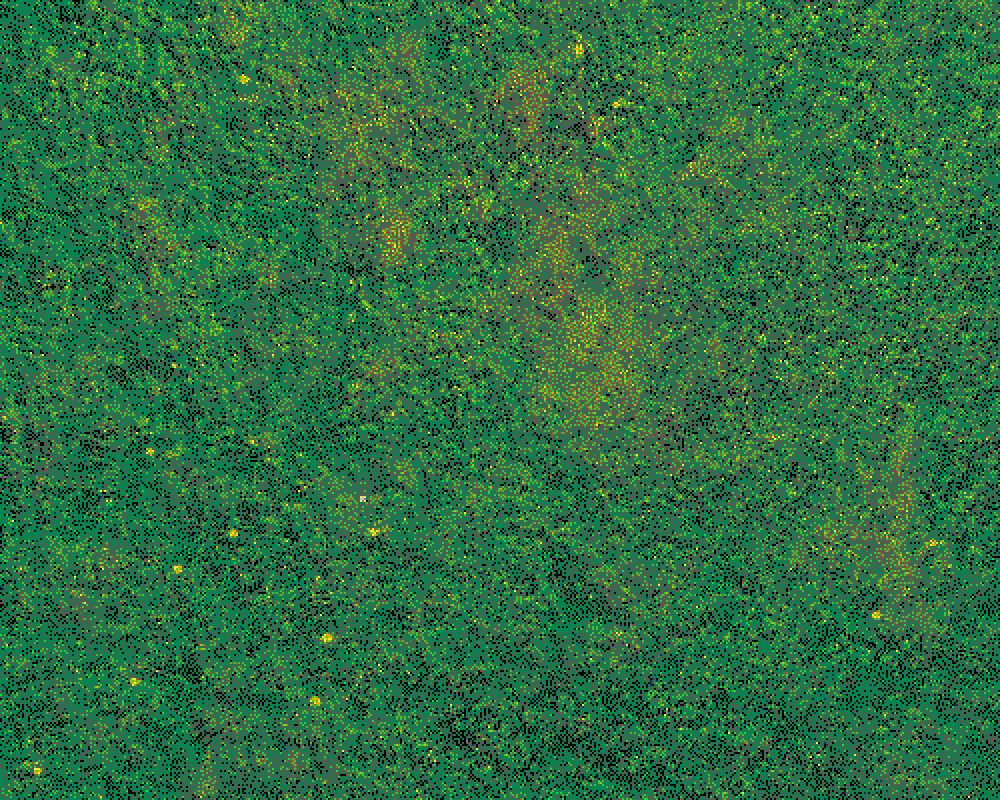
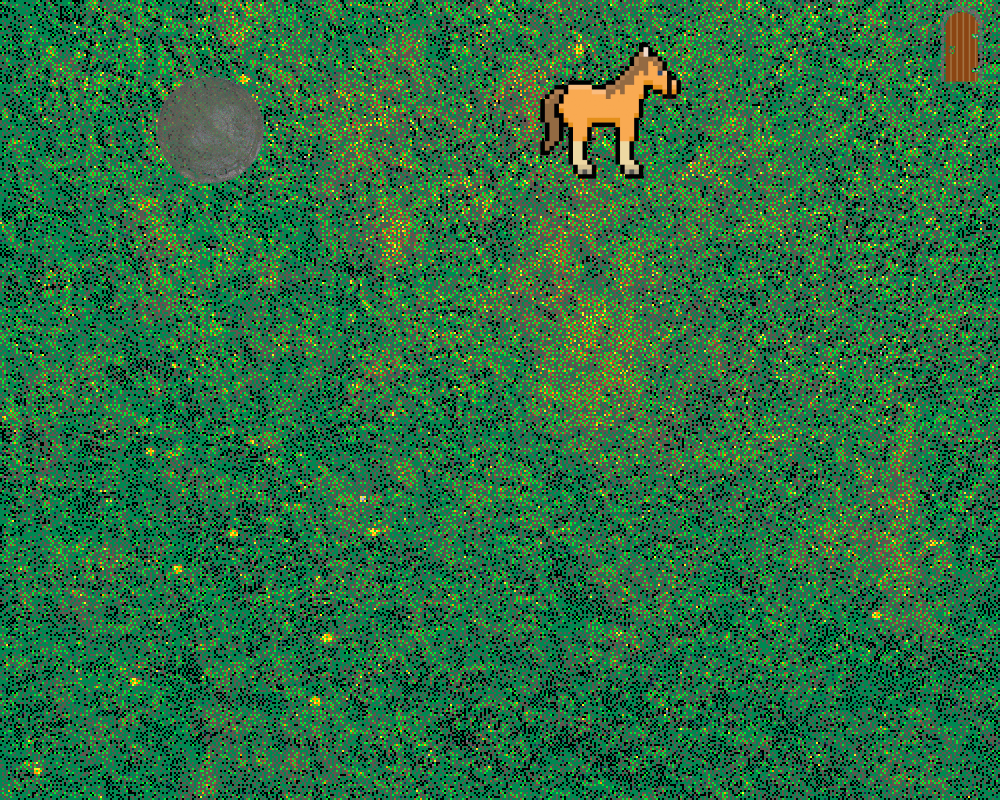
characters

Changed region(s): [[0.527, 0.0625, 0.682, 0.2188], [0.155, 0.0938, 0.279, 0.25], [0.93, 0.0, 0.992, 0.125]]

diff --git a/main.py b/main.py
@@ -11,7 +11,7 @@ print("Loading...")
 
 W, H = 1000, 800
 FPS = 60
-mode = "menu"
+mode = "minigame"
 
 GAME_FONT = "assets/fonts/Tiny5-Regular.ttf"
 
@@ -365,6 +365,64 @@ class BuffMachine:
             mult = int(self.active_effect_tick_value)
             return max(1, mult)
         return 1
+
+class CharacterDialogues:
+    def __init__(self, name, phrases, image_path, dialogueWindow_path, image_path_x, image_path_y, button_x, button_y) -> None:
+        self.name = name
+        self.phrases = phrases
+        self.image_path = load_image(image_path, alpha=True)
+        self.image_path_x = int(image_path_x)
+        self.image_path_y = int(image_path_y)
+        self.rect = self.image_path.get_rect()
+        self.dialogueWindow = load_image(dialogueWindow_path, alpha=True)
+        self.isTriggered = False
+        self.dialogueText = ""
+        self.visible_chars = 0
+        self.char_delay_ms = 35
+        self.last_char_tick = pygame.time.get_ticks()
+        self.isEntered = False
+        self.eButton_image = load_image("assets/images/UI/eButton.png")
+        self.button_x = button_x
+        self.button_y = button_y
+
+    def shufflePhrases(self):
+        self.dialogueText = random.choice(self.phrases)
+        self.visible_chars = 0
+        self.last_char_tick = pygame.time.get_ticks()
+
+    def update_typing_effect(self):
+        if not self.isTriggered:
+            return
+        if self.visible_chars >= len(self.dialogueText):
+            return
+
+        now = pygame.time.get_ticks()
+        elapsed = now - self.last_char_tick
+        if elapsed < self.char_delay_ms:
+            return
+
+        chars_to_add = max(1, elapsed // self.char_delay_ms)
+        self.visible_chars = min(len(self.dialogueText), self.visible_chars + chars_to_add)
+        self.last_char_tick += chars_to_add * self.char_delay_ms
+
+    def drawDialogueWindow(self, screen):
+        if self.isTriggered:
+            self.update_typing_effect()
+            screen.blit(self.dialogueWindow, (0, 662))
+            screen.blit(font_30.render(self.name, True, BLACK), (43, 662))
+            typed_text = self.dialogueText[:self.visible_chars]
+            screen.blit(font_30.render(typed_text, True, BLACK), (30, 750))
+
+    def draw(self, screen):
+        self.rect.topleft = (self.image_path_x, self.image_path_y)
+        screen.blit(self.image_path, (self.image_path_x, self.image_path_y))
+
+    def draw_button(self, screen):
+        screen.blit(self.eButton_image, (self.button_x, self.button_y))
+
+    def activate(self):
+        self.shufflePhrases()
+        self.isTriggered = True
 
 class Background:
     def __init__(self, bg_path, price, buy_button_path, x_button, y_button) -> None:
@@ -898,6 +956,22 @@ energy_drink = ShopItems("assets/images/shop_items/energy_drink.png", None, 410,
 tiger_fruit = ShopItems("assets/images/shop_items/tiger_fruit.png", None, 98, 430)
 minigun = ShopItems("assets/images/shop_items/minigun.png", None, 722, 430)
 
+kiro_phrases = [
+    "А тут, красиво...",
+]
+ronald_phrases = [
+    "Ого! Так вот какой этот мир на поверхности!",
+    "Здесь такая зелёная и яркая трава! Такую я видел только на картинках и обучающих видео!"
+]
+oshu_phrases = [
+    "Мхм... так не приятно, когда солнце бьёт прямо в глаза!"
+]
+
+kiroCharacter = CharacterDialogues(
+    "Киро", kiro_phrases, "assets/images/characters/kiro/kiro_original.png",
+    "assets/images/characters/kiro/kiro_dialogue_widget.png", 43, 23, 190, 10
+)
+
 song_popouts = {
     "GoldStandard_ost.mp3": SongsPopouts("assets/images/UI/GoldStandard_SongCard.png"),
     "Stardust_ost.mp3": SongsPopouts("assets/images/UI/Stardust_SongCard.png"),
@@ -1009,7 +1083,7 @@ required_clicks_for_boost = 100
 current_music_credits = None
 isLoading = False
 isReached1000clicks = False
-isTutorialWatched = False
+isTutorialWatched = True
 notif_visible = False
 notif_timer = Timer(1500)
 notif_5_shown = False
@@ -1444,6 +1518,14 @@ while running:
         if event.type == pygame.KEYDOWN:
             if event.key == pygame.K_SPACE and mode == "game":
                 add_clicks()
+            if (
+                event.key == pygame.K_e
+                and mode == "minigame"
+                and namaPlayer.rect.colliderect(kiroCharacter.rect)
+                and not kiroCharacter.isTriggered
+            ):
+                volume_changing_sound.play()
+                kiroCharacter.activate()
 
     keys = pygame.key.get_pressed()
     if keys[pygame.K_LEFT] or keys[pygame.K_a] and mode == "minigame":
@@ -1763,6 +1845,17 @@ while running:
 
         for coin in coins:
             coin.draw(screen)
+
+        kiroCharacter.draw(screen)
+
+        if (
+            namaPlayer.rect.colliderect(kiroCharacter.rect)
+        ):
+            kiroCharacter.draw_button(screen)
+        else:
+            kiroCharacter.isTriggered = False
+
+        kiroCharacter.drawDialogueWindow(screen)
 
         if coin_spawn_timer.done() and len(coins) < MAX_COINS:
             if random.random() < 0.2:
